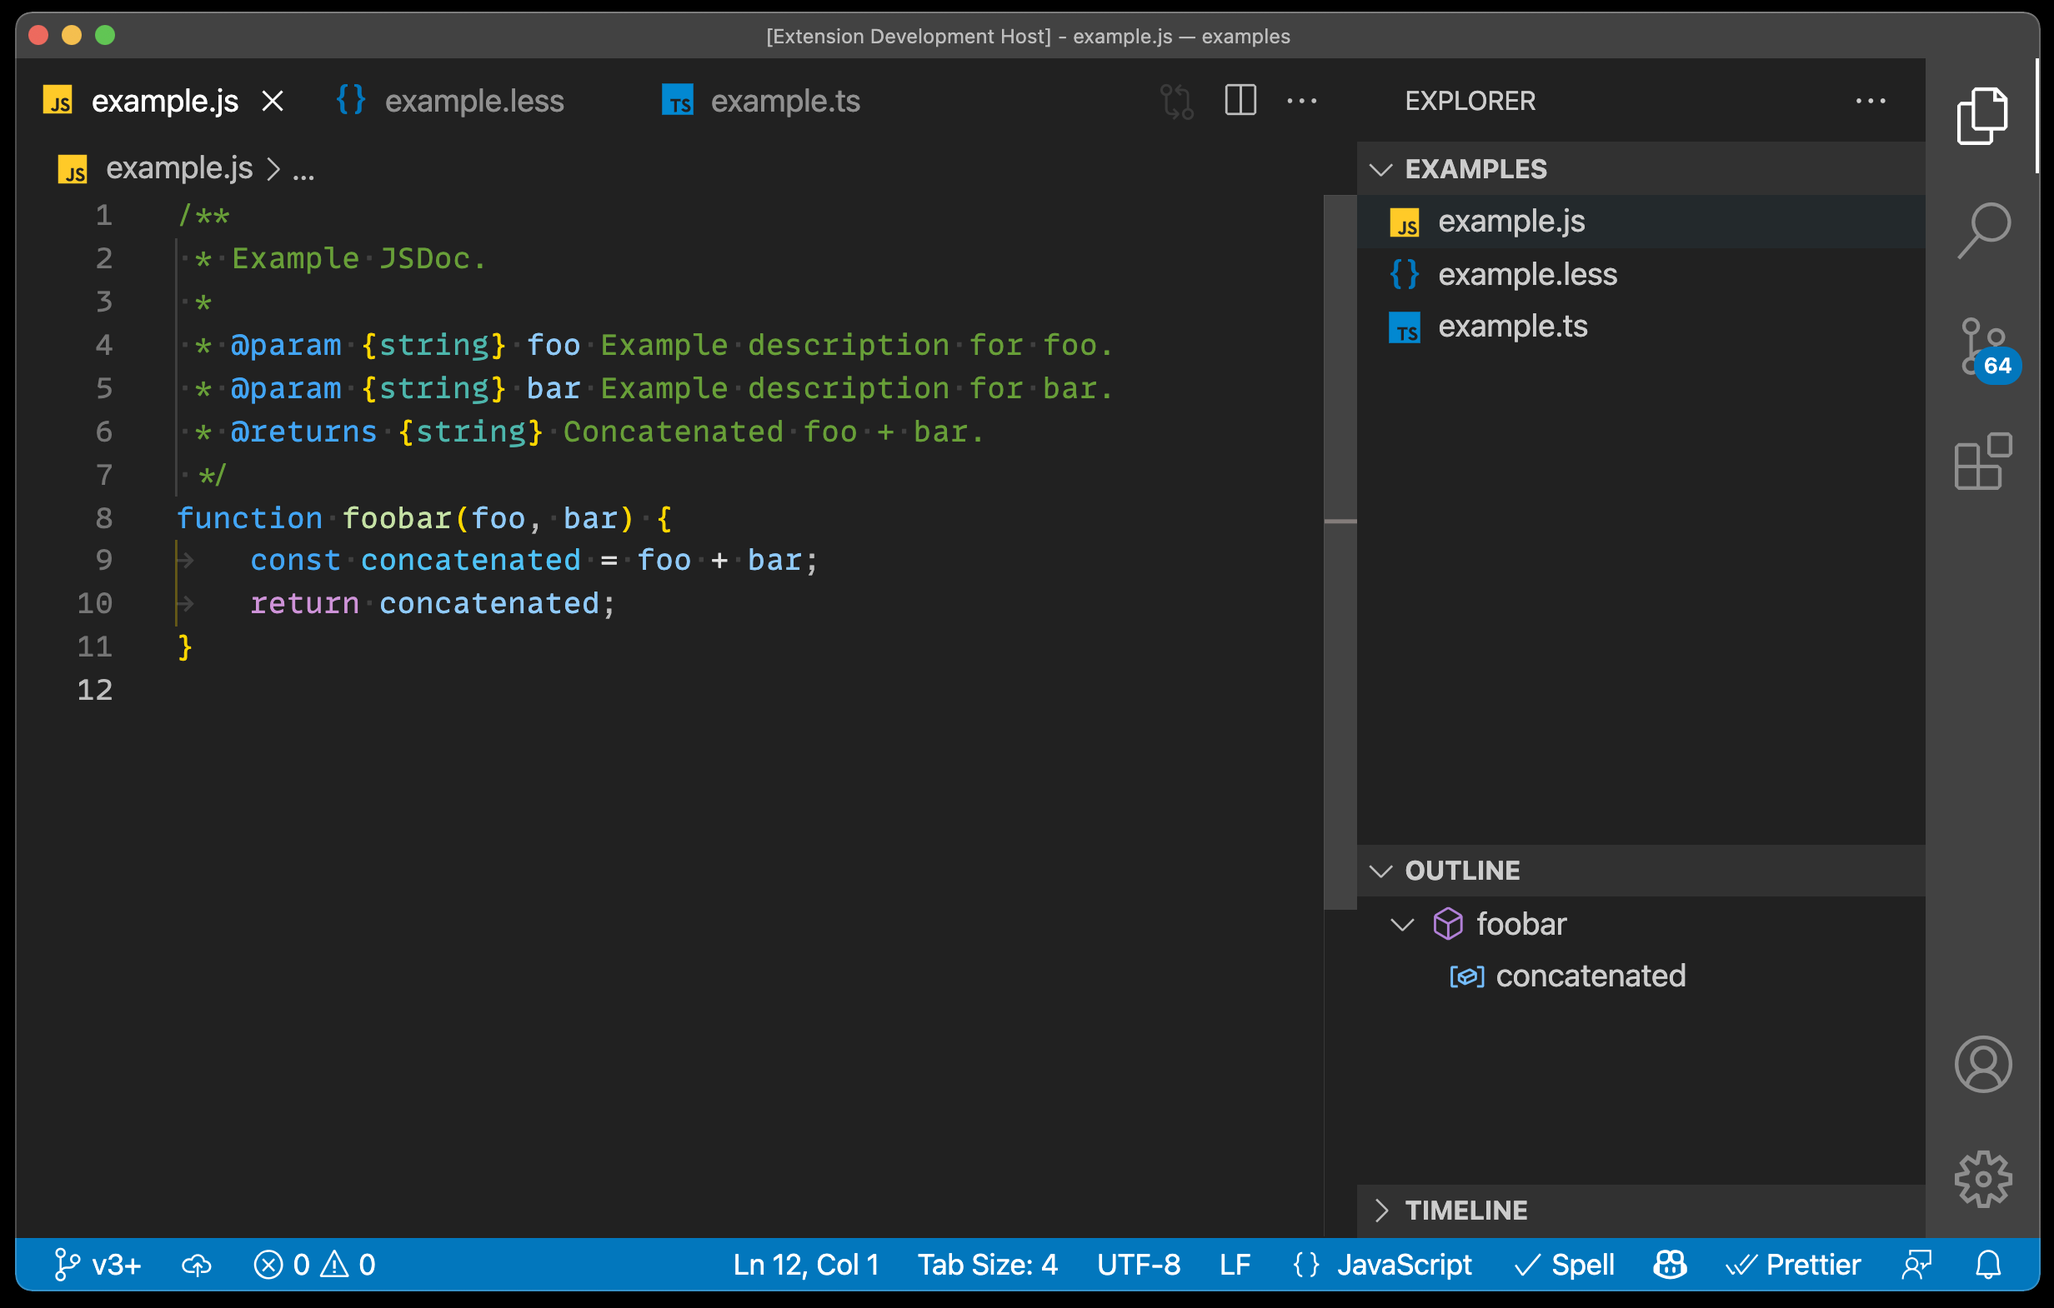
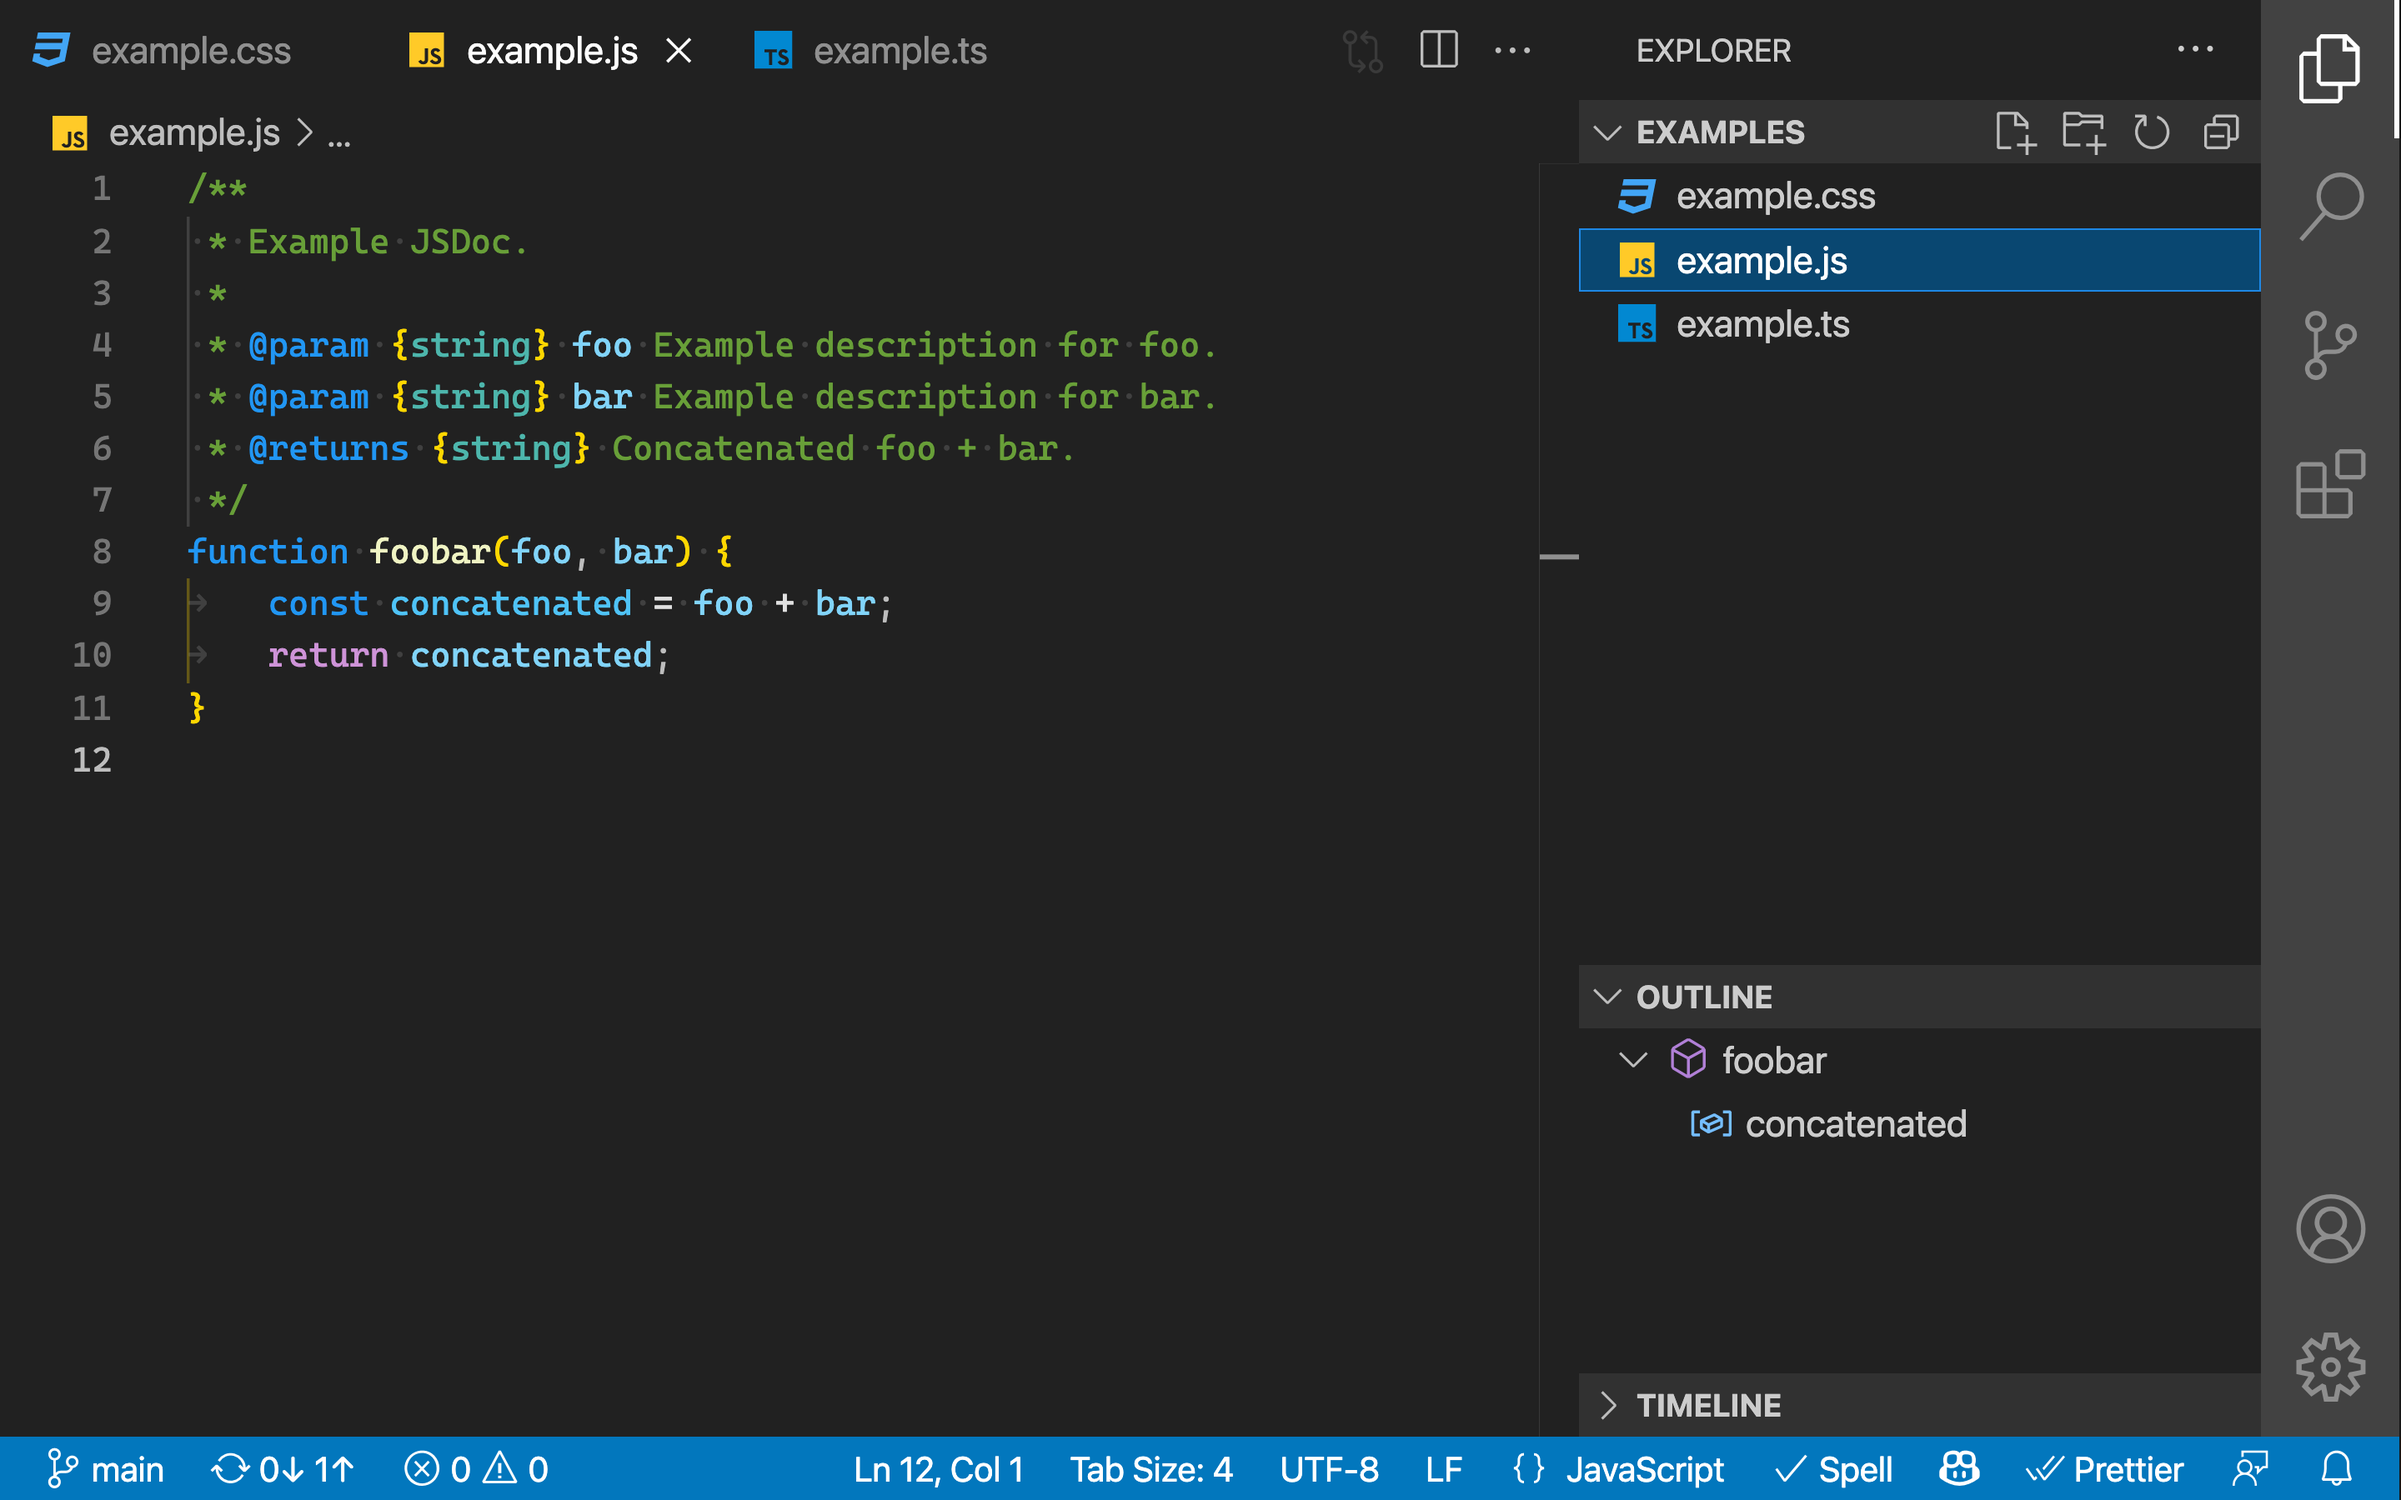
v3.0.2 - Checkout CHANGELOG.md

Changed region(s): [[0.0, 0.0, 1.0, 1.0]]

diff --git a/examples/example.css b/examples/example.css
@@ -1,0 +1,19 @@
+:root {
+	--white: #fff;
+	--black: #000;
+	--foreground: var(--black);
+	--background: var(--white);
+}
+
+/* A comment */
+@media (prefers-color-scheme: dark) {
+	:root {
+		--foreground: var(--white);
+		--background: var(--black);
+	}
+}
+
+#foo > .bar {
+	color: var(--foreground);
+	background-color: var(--background);
+}

diff --git a/README.md b/README.md
@@ -1,24 +1,14 @@
 # Dark+ Material
 
-![Dark+ Material logo](https://i.imgur.com/dbU1a3i.png)
-
-## Reason behind this
-
-I really love the default Dark+ Theme that comes with Visual Studio Code, but also love the Material Design Palette. The thing is I didn't found a good material theme (the coloring is always ugly for my taste). So I made this theme that implements the Material Design Palette in the Dark+ theme that comes with Visual Studio Code.
+The default Dark+ theme, using [Material's color palette](https://material.io/design/color/the-color-system.html#tools-for-picking-colors).
 
 ## Screenshots
 
-### JavaScript
+![CSS screenshot](https://raw.githubusercontent.com/vangware/dark-plus-material/main/screenshots/css.png)
 
-![JavaScript example](https://raw.githubusercontent.com/vangware/dark-plus-material/main/screenshots/javascript.png)
+![JavaScript screenshot](https://raw.githubusercontent.com/vangware/dark-plus-material/main/screenshots/javascript.png)
 
-### LESS
-
-![LESS example](https://raw.githubusercontent.com/vangware/dark-plus-material/main/screenshots/less.png)
-
-### TypeScript
-
-![TypeScript example](https://raw.githubusercontent.com/vangware/dark-plus-material/main/screenshots/typescript.png)
+![TypeScript screenshot](https://raw.githubusercontent.com/vangware/dark-plus-material/main/screenshots/typescript.png)
 
 ## Installing
 
@@ -28,7 +18,20 @@ Launch VS Code Quick Open (Ctrl+P), paste the following command, and press enter
 ext install dark-plus-material
 ```
 
-## Recommended Plugins and settings
+## Customization
 
--   [Material Icon Theme](https://marketplace.visualstudio.com/items?itemName=PKief.material-icon-theme) (by [Philipp Kief](https://github.com/PKief)): Beautiful icon theme that looks awesome with this theme.
--   [FiraCode](https://github.com/tonsky/FiraCode) (by [Nikita Prokopov](https://github.com/tonsky)): The best code ligature font I found, used in the screenshots.
+VSCode lets you customize any theme to use the colors you want, so if you want for example change this theme to have a darker background, you can add this to your settings:
+
+```json
+"workbench.colorCustomizations": {
+	"breadcrumb.background": "#000000",
+	"editor.background": "#000000",
+	"editorGutter.background": "#000000",
+	"tab.activeBackground": "#000000"
+}
+```
+
+## Other themes by [Vangware](https://vangware.com)
+
+-   [**Dark+ Bootstrap:**](https://lshi.ru/dark-plus-bootstrap) The default Dark+ theme, using [Bootstrap's color palette](https://getbootstrap.com/docs/5.0/customize/color/#all-colors).
+-   [**Dark+ Tailwind:**](https://lshi.ru/dark-plus-tailwind) The default Dark+ theme, using [Tailwind's color palette](https://tailwindcss.com/docs/customizing-colors).

diff --git a/CHANGELOG.md b/CHANGELOG.md
@@ -1,5 +1,10 @@
 # Changelog
 
+## 3.0.2
+
+-   Better README.md.
+-   Updated screenshots.
+
 ## 3.0.1
 
 -   Instead of using euclidean difference, now use LAB trough `color-diff`.
